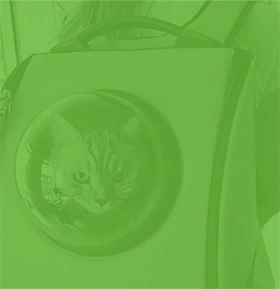
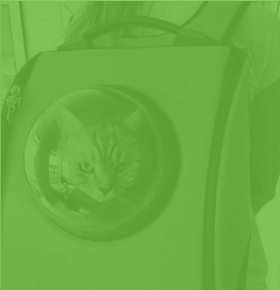
Адаптивная графика всех страниц

diff --git a/source/catalog.html b/source/catalog.html
@@ -42,7 +42,10 @@
             <div class="catalog__item-wrapper">
             <div class="catalog__content">
             <div class="catalog__img">
-              <img src="img/cat-energy-catalog-1.png" width="72" height="84" alt="Фото товара Cat Energy PRO 500г">
+              <picture>
+                <source media="(min-width: 768px)" srcset="img/cat-energy-catalog-tablet-1.png 1x, img/cat-energy-catalog-tablet-1@2x.png 2x">
+              <img src="img/cat-energy-catalog-1.png" srcset="img/cat-energy-catalog-1@2x.png 2x" alt="Фото товара Cat Energy PRO 500г">
+              </picture>
             </div>
             <table class="catalog__card">
               <caption class="catalog__card-title">Cat Energy PRO 500 г</caption>
@@ -66,7 +69,12 @@
             <div class="catalog__item-wrapper">
             <div class="catalog__content">
             <div class="catalog__img">
-              <img src="img/cat-energy-catalog-2.png" width="72" height="84" alt="фото товара Cat Energy PRO 1000 г">
+              <picture>
+                <source media="(min-width: 768px)"
+                  srcset="img/cat-energy-catalog-tablet-2.png 1x, img/cat-energy-catalog-tablet-2@2x.png 2x">
+                <img src="img/cat-energy-catalog-2.png" srcset="img/cat-energy-catalog-2@2x.png 2x"
+                  alt="Фото товара Cat Energy PRO 1000г">
+              </picture>
             </div>
             <table class="catalog__card">
                 <caption class="catalog__card-title">Cat Energy PRO 1000 г</caption>
@@ -90,7 +98,12 @@
             <div class="catalog__item-wrapper">
             <div class="catalog__content">
             <div class="catalog__img">
-              <img src="img/cat-energy-catalog-3.png" width="72" height="84" alt="Фото товара Cat Energy PRO 500г"></div>
+              <picture>
+                <source media="(min-width: 768px)"
+                  srcset="img/cat-energy-catalog-tablet-3.png 1x, img/cat-energy-catalog-tablet-3@2x.png 2x">
+                <img src="img/cat-energy-catalog-3.png" srcset="img/cat-energy-catalog-3@2x.png 2x"
+                  alt="Фото товара Cat Energy PRO 500г">
+              </picture></div>
             <table class="catalog__card">
                 <caption class="catalog__card-title">Cat Energy PRO 500 г</caption>
               <tr class="catalog__card-row">
@@ -113,7 +126,12 @@
             <div class="catalog__item-wrapper">
             <div class="catalog__content">
             <div class="catalog__img">
-              <img src="img/cat-energy-catalog-4.png" width="72" height="84" alt="Фото товара Cat Energy PRO 1000г"></div>
+              <picture>
+                <source media="(min-width: 768px)"
+                  srcset="img/cat-energy-catalog-tablet-4.png 1x, img/cat-energy-catalog-tablet-4@2x.png 2x">
+                <img src="img/cat-energy-catalog-4.png" srcset="img/cat-energy-catalog-4@2x.png 2x"
+                  alt="Фото товара Cat Energy PRO 1000г">
+              </picture></div>
             <table class="catalog__card">
                 <caption class="catalog__card-title">Cat Energy PRO 1000 г</caption>
               <tr class="catalog__card-row">
@@ -136,7 +154,12 @@
             <div class="catalog__item-wrapper">
             <div class="catalog__content">
             <div class="catalog__img">
-              <img src="img/cat-energy-catalog-5.png" width="72" height="84" alt="Фото товара Cat Energy SLIM 500г"></div>
+              <picture>
+                <source media="(min-width: 768px)"
+                  srcset="img/cat-energy-catalog-tablet-5.png 1x, img/cat-energy-catalog-tablet-5@2x.png 2x">
+                <img src="img/cat-energy-catalog-5.png" srcset="img/cat-energy-catalog-5@2x.png 2x"
+                  alt="Фото товара Cat Energy PRO 500г">
+              </picture></div>
             <table class="catalog__card">
                 <caption class="catalog__card-title">Cat Energy SLIM 500 г</caption>
               <tr class="catalog__card-row">
@@ -159,7 +182,12 @@
             <div class="catalog__item-wrapper">
             <div class="catalog__content">
             <div class="catalog__img">
-              <img src="img/cat-energy-catalog-6.png" width="72" height="84" alt="Фото товара Cat Energy SLIM 1000г"></div>
+              <picture>
+                <source media="(min-width: 768px)"
+                  srcset="img/cat-energy-catalog-tablet-6.png 1x, img/cat-energy-catalog-tablet-6@2x.png 2x">
+                <img src="img/cat-energy-catalog-6.png" srcset="img/cat-energy-catalog-6@2x.png 2x"
+                  alt="Фото товара Cat Energy PRO 1000г">
+              </picture></div>
             <table class="catalog__card">
                 <caption class="catalog__card-title">Cat Energy SLIM 1000 г</caption>
               <tr class="catalog__card-row">
@@ -182,7 +210,12 @@
             <div class="catalog__item-wrapper">
             <div class="catalog__content">
             <div class="catalog__img">
-              <img src="img/cat-energy-catalog-7.png" width="72" height="84" alt="Фото товара Cat Energy SLIM 500г"></div>
+              <picture>
+                <source media="(min-width: 768px)"
+                  srcset="img/cat-energy-catalog-tablet-7.png 1x, img/cat-energy-catalog-tablet-7@2x.png 2x">
+                <img src="img/cat-energy-catalog-7.png" srcset="img/cat-energy-catalog-7@2x.png 2x"
+                  alt="Фото товара Cat Energy PRO 500г">
+              </picture></div>
             <table class="catalog__card">
                 <caption class="catalog__card-title">Cat Energy SLIM 500 г</caption>
               <tr class="catalog__card-row">

diff --git a/source/index.html b/source/index.html
@@ -4,6 +4,7 @@
 <head class="page">
   <meta charset="utf-8">
   <meta name="viewport" content="width=device-width, initial-scale=1">
+  <link rel="icon" href="./favicon.ico/favicon-32x32.png">
   <title>HTML Academy: Кэт энерджи</title>
   <link rel="stylesheet" href="css/style.css">
 </head>
@@ -115,10 +116,19 @@
             <input class="toggle__input toggle__input--after" type="radio" id="example-input-after" name="example-input">
             <div class="toggle__list">
               <div class="toggle__item toggle__item--before">
-                <img class="toggle__img" src="img/example-before-min.png" width="311" height="232" alt="Пример кота до приема Cat Energy">
+                <picture>
+                  <source media="(min-width: 1440px)" srcset="img/example-before-max.png 1x, img/example-before-max@2x.png 2x">
+                  <source media="(min-width: 768px)" srcset="img/example-before-mid.png 1x, img/example-before-mid@2x.png 2x">
+                  <img class="toggle__img toggle__img--before" src="img/example-before-min.png" srcset="img/example-before-min@2x.png 2x" alt="Пример кота до приема Cat Energy">
+                </picture>
               </div>
               <div class="toggle__item toggle__item--after">
-                <img class="toggle__img" src="img/example-after-min.png" width="311" height="232" alt="Пример кота после приема Cat Energy">
+                <picture>
+                  <source media="(min-width: 1440px)" srcset="img/example-after-max.png 1x, img/example-after-max@2x.png 2x">
+                  <source media="(min-width: 768px)" srcset="img/example-after-mid.png 1x, img/example-after-mid@2x.png 2x">
+                  <img class="toggle__img toggle__img--after" src="img/example-after-min.png" srcset="img/example-after-min@2x.png 2x"
+                    alt="Пример кота после приема Cat Energy">
+                </picture>
               </div>
             </div>
             <div class="toggle__control">

diff --git a/source/less/blocks/toggle.less b/source/less/blocks/toggle.less
@@ -46,11 +46,10 @@
   @media (min-width: @tablet-width) {
     position: relative;
     z-index: 1;
-    width: 50%;
   }
 }
 
-.toggle__item--before {
+.toggle__item--before .toggle__img {
   @media (min-width: @tablet-width) {
     position: absolute;
     top: 0;
@@ -58,23 +57,29 @@
     z-index: 2;
     overflow: hidden;
     transition: all 0.3s ease;
-    //background-image: linear-gradient(to bottom, #ffffff, #ffffff 169px, #f2f2f2 169px, #f2f2f2);
+    width: 260px;
   }
 
   @media (min-width: @desktop-width) {
-    //background-image: linear-gradient(to bottom, #ffffff, #ffffff 190px, #f2f2f2 190px, #f2f2f2);
+    left: 56px;
+    width: 405px;
+    height: 536px;
   }
 }
 
-.toggle__item--after {
+.toggle__item--after .toggle__img {
   display: none;
 
   @media (min-width: @tablet-width) {
     display: block;
+    left: 260px;
+    width: 260px;
   }
 
   @media (min-width: @desktop-width) {
-    left: 60px;
+    left: 420px;
+    width: 325px;
+    height: 654px;
   }
 }
 
@@ -83,15 +88,25 @@
   display: block;
   width: 320px;
   height: 240px;
-  margin-left: auto;
-  margin-right: auto;
 
   @media (min-width: @tablet-width) {
-    width: 690px;
-    max-width: 690px;
     height: 517px;
-    margin-right: 0;
-    margin-left: 7px;
+  }
+}
+
+.toggle__img--after {
+  @media (min-width: @tablet-width) {
+    margin-right: auto;
+  }
+
+  @media (min-width: @desktop-width) {
+    margin-left: -40px;
+  }
+}
+
+.toggle__img--before {
+  @media (min-width: @tablet-width) {
+    margin-left: auto;
   }
 
   @media (min-width: @desktop-width) {

diff --git a/source/less/blocks/product-other.less b/source/less/blocks/product-other.less
@@ -4,12 +4,12 @@
 }
 
 .product-other__container {
-  box-sizing: content-box;
-  width: 100%;
+  box-sizing: border-box;
   margin-left: auto;
   margin-right: auto;
   min-width: 280px;
   max-width: 1220px;
+  padding: 0 20px;
 }
 
 .product-other__title-wrapper {
@@ -33,7 +33,8 @@
 }
 
 .product-other__title {
-  box-sizing: content-box;
+  box-sizing: border-box;
+  width: max-content;
   font-size: 24px;
   line-height: 24px;
   font-weight: 400;
@@ -49,7 +50,6 @@
     padding-left: 30px;
     padding-right: 30px;
     margin-left: 30px;
-    width: 338px;
   }
 
   @media (min-width: @desktop-width) {
@@ -138,8 +138,18 @@
   background-image: url("../img/product-other-min.jpg");
   background-repeat: no-repeat;
 
+  @media (min-resolution: 2dppx) {
+    background-image: url("../img/product-other-min@2x.jpg");
+    background-size: cover;
+  }
+
   @media (min-width: @tablet-width) {
     background-size: 100%;
+
+    @media (min-resolution: 2dppx) {
+      background-image: url("../img/product-other-mid@2x.jpg");
+      background-size: cover;
+    }
   }
 
   ::before {
@@ -155,6 +165,11 @@
   @media (min-width: @desktop-width) {
     width: 244px;
     height: 288px;
+
+    @media (min-resolution: 2dppx) {
+      background-image: url("../img/product-other-max@2x.jpg");
+      background-size: cover;
+    }
   }
 }
 

diff --git a/source/less/blocks/intro.less b/source/less/blocks/intro.less
@@ -39,6 +39,10 @@
   background-position: top;
   position: relative;
 
+  @media (min-resolution: 2dppx) {
+    background-image: url("../img/intro-background-min@2x.jpg");
+  }
+
   @media (min-width: @tablet-width) {
     padding: 0 90px;
     background-image: none;
@@ -60,6 +64,12 @@
   height: 272px;
   position: absolute;
   top: 160px;
+  left: 20px;
+
+  @media (min-resolution: 2dppx) {
+    background-image: url("../img/intro-cat-energy-min@2x.png");
+    background-size: 280px 272px;
+  }
 
   @media (min-width: @tablet-width) {
     background-image: url("../img/intro-cat-energy-mid.jpg");
@@ -67,11 +77,21 @@
     height: 609px;
     position: relative;
     top: 0;
+
+    @media (min-resolution: 2dppx) {
+      background-image: url("../img/intro-cat-energy-mid@2x.jpg");
+      background-size: 709px 609px;
+    }
   }
 
   @media (min-width: @desktop-width) {
     background-image: url("../img/intro-cat-energy-max.png");
     top: 75px;
+
+    @media (min-resolution: 2dppx) {
+      background-image: url("../img/intro-cat-energy-max@2x.png");
+      background-size: 552px 499px;
+    }
   }
 }
 

diff --git a/source/less/blocks/page-header.less b/source/less/blocks/page-header.less
@@ -13,6 +13,12 @@
     background-image: url("../img/intro-background-max.jpg");
     background-position: right;
     background-repeat: no-repeat;
+    background-size: 50% auto;
+
+    @media (min-resolution: 2dppx) {
+      background-image: url("../img/intro-background-max@2x.jpg");
+      background-size: 50%;
+    }
   }
 }
 

diff --git a/source/less/blocks/wrapper.less b/source/less/blocks/wrapper.less
@@ -1,9 +1,8 @@
 .wrapper {
   box-sizing: border-box;
-  width: 100%;
-  min-width: 280px;
+  min-width: 260px;
   max-width: 1220px;
-  padding: 0 20px;
+  padding: 0 30px;
   margin: 0 auto;
 
   @media (min-width: @tablet-width) {

diff --git a/source/less/blocks/main-nav.less b/source/less/blocks/main-nav.less
@@ -7,6 +7,8 @@
   padding: 0;
   margin: 0;
   text-align: center;
+  z-index: 1;
+  position: relative;
 
   @media (max-width: @mobile-width-only) {
     position: absolute;

diff --git a/source/less/blocks/example.less b/source/less/blocks/example.less
@@ -23,7 +23,6 @@
   max-width: 1220px;
   padding: 0 30px;
   margin: 0 auto;
-  width: 100%;
 
   @media (min-width: @tablet-width) {
     padding: 0 30px;
